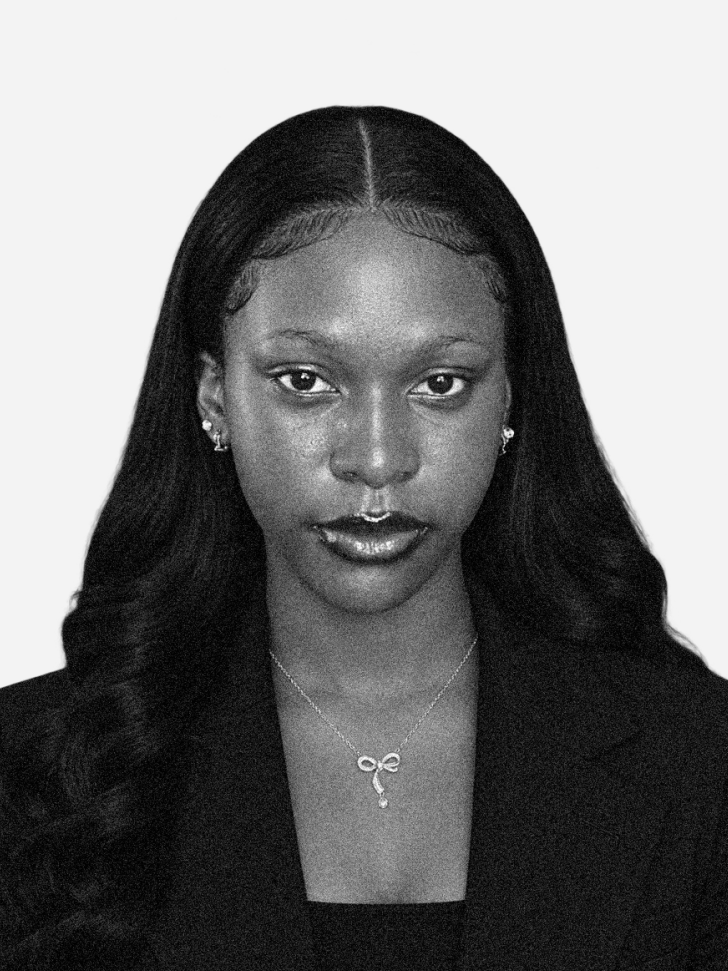
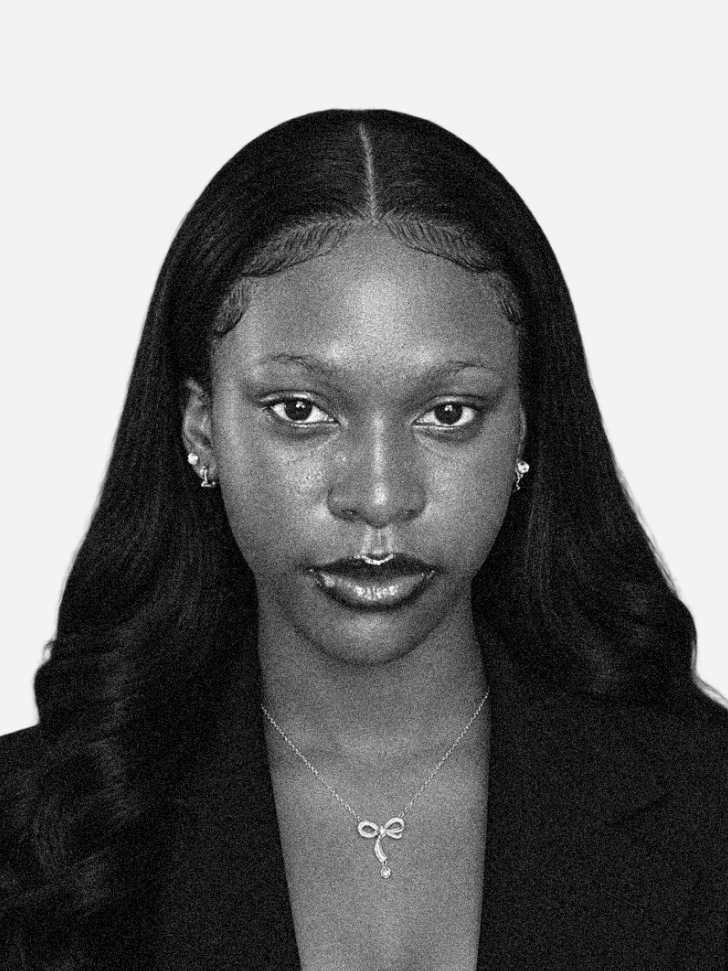
commit

diff --git a/visium_studios/src/shared/ScrollIndicator.jsx b/visium_studios/src/shared/ScrollIndicator.jsx
@@ -1,31 +1,28 @@
 import { useEffect, useRef } from "react";
 
-const BAR_COUNT = 20;
-const MIN_HEIGHT = 8; // px, the "dot" state
-const MAX_HEIGHT = 44; // px, the active bar
-const SPREAD = 1.1; // how many bars the wave reaches (smaller = sharper)
-const MIN_OPACITY = 0.35;
-
 export default function ScrollIndicator({
   indicatorRef,
   onSeek,
   className = "",
 }) {
   const rootRef = useRef(null);
-  const barsRef = useRef([]);
+  const thumbRef = useRef(null);
+  const fillRef = useRef(null);
 
   useEffect(() => {
-    const update = (t) => {
-      for (let i = 0; i < BAR_COUNT; i++) {
-        const bar = barsRef.current[i];
-        if (!bar) continue;
-        // circular distance so the wave wraps with the infinite loop
-        let d = Math.abs((i + 0.5) / BAR_COUNT - t);
-        d = Math.min(d, 1 - d) * BAR_COUNT;
-        const k = Math.exp(-(d * d) / (2 * SPREAD * SPREAD));
-        bar.style.height = `${MIN_HEIGHT + (MAX_HEIGHT - MIN_HEIGHT) * k}px`;
-        bar.style.opacity = `${MIN_OPACITY + (1 - MIN_OPACITY) * k}`;
+    const update = (value) => {
+      const progress = Math.min(Math.max(value, 0), 1);
+      if (thumbRef.current) {
+        thumbRef.current.style.left = `${progress * 100}%`;
+        thumbRef.current.style.transform = `translate(-${progress * 100}%, -50%)`;
       }
+      if (fillRef.current) {
+        fillRef.current.style.width = `${progress * 100}%`;
+      }
+      rootRef.current?.setAttribute(
+        "aria-valuenow",
+        String(Math.round(progress * 100)),
+      );
     };
 
     if (indicatorRef) indicatorRef.current = { update };
@@ -35,24 +32,25 @@ export default function ScrollIndicator({
     };
   }, [indicatorRef]);
 
-  // Click / drag to seek
   useEffect(() => {
     const root = rootRef.current;
     if (!root || !onSeek) return;
     let active = false;
 
-    const seek = (e) => {
+    const seek = (event) => {
       const rect = root.getBoundingClientRect();
-      const t = (e.clientX - rect.left) / rect.width;
-      onSeek(Math.min(Math.max(t, 0), 0.999));
+      const progress = (event.clientX - rect.left) / rect.width;
+      onSeek(Math.min(Math.max(progress, 0), 0.999));
     };
-    const down = (e) => {
+    const down = (event) => {
       active = true;
-      root.setPointerCapture(e.pointerId);
-      seek(e);
+      root.setPointerCapture(event.pointerId);
+      seek(event);
     };
-    const move = (e) => active && seek(e);
-    const up = () => (active = false);
+    const move = (event) => active && seek(event);
+    const up = () => {
+      active = false;
+    };
 
     root.addEventListener("pointerdown", down);
     root.addEventListener("pointermove", move);
@@ -66,23 +64,67 @@ export default function ScrollIndicator({
     };
   }, [onSeek]);
 
+  const handleKeyDown = (event) => {
+    if (!onSeek) return;
+    const current = Number(rootRef.current?.getAttribute("aria-valuenow") ?? 0);
+    if (event.key === "ArrowRight" || event.key === "ArrowUp") {
+      event.preventDefault();
+      onSeek(Math.min((current + 5) / 100, 0.999));
+    } else if (event.key === "ArrowLeft" || event.key === "ArrowDown") {
+      event.preventDefault();
+      onSeek(Math.max((current - 5) / 100, 0));
+    } else if (event.key === "Home") {
+      event.preventDefault();
+      onSeek(0);
+    } else if (event.key === "End") {
+      event.preventDefault();
+      onSeek(0.999);
+    }
+  };
+
   return (
     <div
-      ref={rootRef}
-      aria-hidden="true"
-      className={`flex w-[14rem] max-w-full touch-none select-none items-center justify-between ${
-        onSeek ? "cursor-pointer" : ""
-      } ${className}`}
-      style={{ height: MAX_HEIGHT }}
+      className={`flex w-[14rem] max-w-full flex-col items-center gap-1 ${className}`}
     >
-      {Array.from({ length: BAR_COUNT }, (_, i) => (
-        <span
-          key={i}
-          ref={(el) => (barsRef.current[i] = el)}
-          className="w-[5px] rounded-full bg-white will-change-[height,opacity]"
-          style={{ height: MIN_HEIGHT, opacity: MIN_OPACITY }}
-        />
-      ))}
+      <div className="flex w-full items-center gap-2 text-white/55">
+        <span aria-hidden="true" className="text-sm leading-none">
+          ←
+        </span>
+        <div
+          ref={rootRef}
+          role="slider"
+          tabIndex={onSeek ? 0 : undefined}
+          aria-label="Slide through images"
+          aria-valuemin={0}
+          aria-valuemax={100}
+          aria-valuenow={0}
+          onKeyDown={handleKeyDown}
+          className={`relative h-8 flex-1 touch-none select-none ${
+            onSeek ? "cursor-ew-resize" : ""
+          }`}
+        >
+          <span className="absolute inset-x-0 top-1/2 h-px -translate-y-1/2 bg-white/25" />
+          <span
+            ref={fillRef}
+            className="absolute left-0 top-1/2 h-px -translate-y-1/2 bg-white/80"
+            style={{ width: "0%" }}
+          />
+          <span
+            ref={thumbRef}
+            className="absolute left-0 top-1/2 flex h-5 w-9 items-center justify-center gap-1 rounded-full border border-white/60 bg-[#0B0B0B] text-[10px] leading-none text-white shadow-sm"
+          >
+            <span aria-hidden="true">‹</span>
+            <span className="h-2 w-px bg-white/35" />
+            <span aria-hidden="true">›</span>
+          </span>
+        </div>
+        <span aria-hidden="true" className="text-sm leading-none">
+          →
+        </span>
+      </div>
+      <span className="text-[9px] uppercase tracking-[0.18em] text-white/45">
+        Drag to slide
+      </span>
     </div>
   );
 }

diff --git a/visium_studios/src/data/team.js b/visium_studios/src/data/team.js
@@ -9,13 +9,12 @@ const team = [
     name: "Kenechukwu Godswill",
     role: "Studio operations lead",
     roleShort: "Studio Lead",
-    image: "/assets/team/Ken Godswill.png",
+    image: "/assets/team/Kenechukwu Godswill.png",
   },
   {
-    name: "Chioma Okoye",
-    role: "Social & Client experience manager",
-    roleShort: "Social & CEM",
-    image: "/assets/team/Chioma Okoye.png",
+    name: "Blessed Peter",
+    role: "Growth & Client Partnership lead",
+    image: "/assets/team/Blessed Peter.png",
   },
   {
     name: "Gold Wuraola",
@@ -23,7 +22,12 @@ const team = [
     roleShort: "Brand Strategist",
     image: "/assets/team/Gold Wuraola.png",
   },
-
+  {
+    name: "Chioma Okoye",
+    role: "Social & Client experience manager",
+    roleShort: "Social & CEM",
+    image: "/assets/team/Chioma Okoye.png",
+  },
   {
     name: "Wisdom Chukwu",
     role: "Brand & Visual designer",
@@ -40,6 +44,11 @@ const team = [
     image: "/assets/team/Victor Abongaby.png",
   },
   {
+    name: "Justina Igbani",
+    role: "Product Designer",
+    image: "/assets/team/Justina Igbani.png",
+  },
+  {
     name: "Bitrus Duniya",
     role: "Web & Product Developer",
     image: "/assets/team/Bitrus Duniya.png",
@@ -48,6 +57,11 @@ const team = [
     name: "Chike Emmanuel",
     role: "Backend & App Developer",
     image: "/assets/team/Chike Emmanuel.png",
+  },
+  {
+    name: "Victor George",
+    role: "Motion & Animation Artist",
+    image: "/assets/team/Victor George.png",
   },
   {
     name: "Nathan Araujo",

diff --git a/visium_studios/src/components/studio/TeamGrid.jsx b/visium_studios/src/components/studio/TeamGrid.jsx
@@ -19,7 +19,7 @@ function TeamGrid() {
                 src={member.image}
                 alt={member.name}
                 loading="lazy"
-                className="h-full w-full object-cover grayscale transition duration-700 ease-out group-hover:scale-[1.03] group-hover:grayscale-0"
+                className="h-full w-full object-cover grayscale"
               />
             </div>
 
